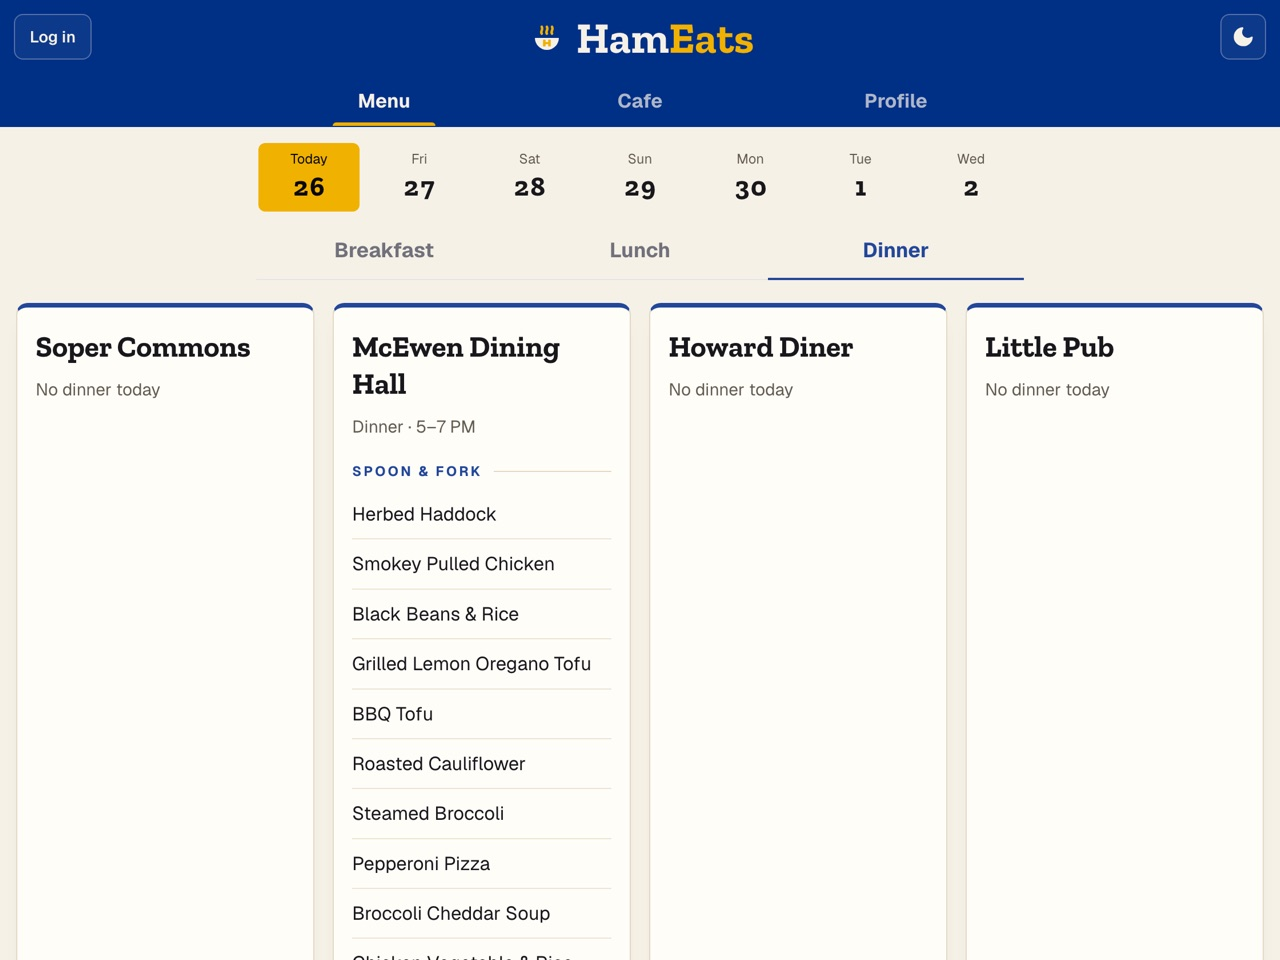
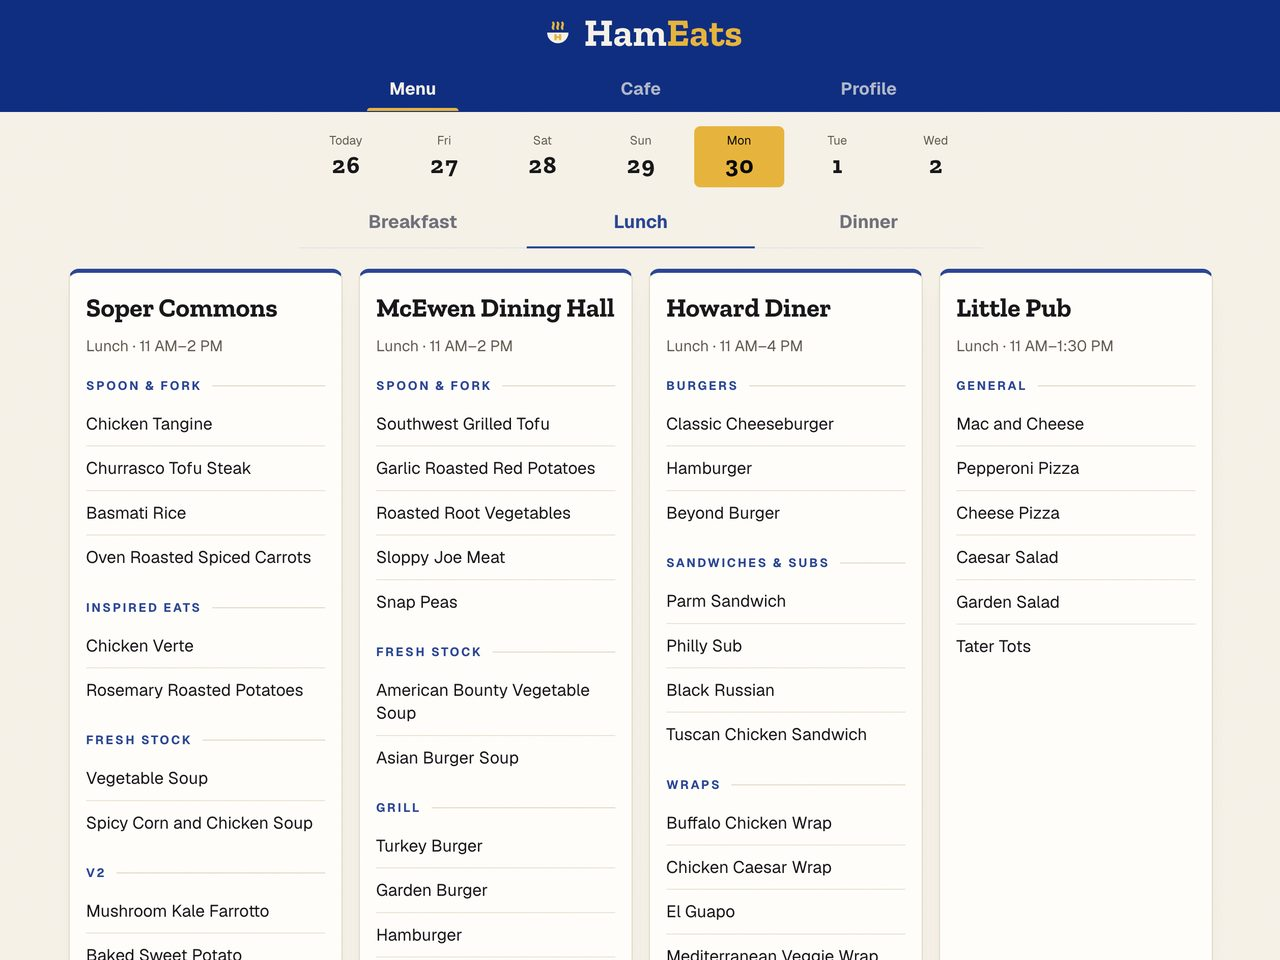
Restyle app cards after Sentient's product cards; new Hameats screenshot
- Narrower cards (380px), 24px padding, 36px corners, border-only hover
- Tighter type scale: 1.75rem title, 14px text and labels, 1.5rem stats
- Screenshot runs edge to edge and fades into the card above the buttons
- 48px pill buttons, still centred
- Replace the Hameats screenshot with a lunch-menu view

diff --git a/src/style.css b/src/style.css
@@ -574,12 +574,14 @@ a {
 }
 
 /* ---------- apps ---------- */
+/* Card layout follows the Sentient product cards: tag, title, short text, a two-figure
+   stat row, an edge-to-edge picture that fades into the card, then the buttons. */
 .app-cards {
+  --card-bg: #fff;
   display: grid;
-  grid-template-columns: repeat(2, minmax(0, 1fr));
-  gap: 28px;
-  max-width: 980px;
-  margin: 0 auto;
+  grid-template-columns: repeat(2, minmax(0, 380px));
+  justify-content: center;
+  gap: 24px;
 }
 
 /* Each card spans six shared rows (tag, name, text, stats, screenshot, buttons) so
@@ -590,17 +592,19 @@ a {
   grid-template-rows: subgrid;
   row-gap: 0;
   align-content: start;
-  padding: 32px;
-  background: #fff;
-  border: 2px solid transparent;
-  border-radius: 32px;
-  box-shadow: 0 1px 2px rgb(23 58 120 / 0.04), 0 10px 30px rgb(23 58 120 / 0.05);
+  padding: 24px;
+  overflow: hidden;
+  background: var(--card-bg);
+  border: 1.5px solid transparent;
+  border-radius: 36px;
+  box-shadow: 0 1px 2px rgb(23 58 120 / 0.04), 0 8px 24px rgb(23 58 120 / 0.05);
   transition: border-color 0.3s, box-shadow 0.3s;
 }
 
-.app-card:hover {
+.app-card:hover,
+.app-card:focus-within {
   border-color: var(--fb-blue);
-  box-shadow: 0 14px 40px rgb(23 58 120 / 0.1);
+  box-shadow: 0 12px 32px rgb(23 58 120 / 0.09);
 }
 
 .app-tag {
@@ -608,72 +612,79 @@ a {
   align-self: start;
   display: inline-flex;
   align-items: center;
-  gap: 10px;
-  padding: 7px 16px;
+  gap: 8px;
+  padding: 8px 12px;
   border: 1px solid var(--light-mid);
   border-radius: 999px;
   color: var(--heading);
-  font-size: 0.95rem;
+  font-size: 0.875rem;
   font-weight: 600;
+  line-height: 1.24;
+}
+
+.app-tag .dot {
+  width: 8px;
+  height: 8px;
 }
 
 .app-name {
-  margin: 28px 0 12px;
+  margin: 32px 0 0;
   color: var(--heading);
-  font-size: clamp(1.8rem, 3.2vw, 2.3rem);
+  font-size: 1.75rem;
   font-weight: 800;
-  letter-spacing: -0.01em;
-  line-height: 1.1;
+  letter-spacing: -0.02em;
+  line-height: 1;
 }
 
 .app-desc {
-  margin: 0;
+  margin: 16px 0 0;
   color: var(--gray);
-  font-size: 1.02rem;
-  line-height: 1.6;
+  font-size: 0.875rem;
+  line-height: 1.55;
 }
 
 .app-stats {
   align-self: start;
   display: grid;
   grid-template-columns: 1fr 1fr;
-  margin-top: 28px;
+  margin-top: 24px;
   border-top: 1px solid var(--light-mid);
 }
 
 .app-stat {
   display: flex;
   flex-direction: column;
-  gap: 4px;
+  gap: 8px;
+  min-height: 48px;
   padding-top: 20px;
 }
 
 .app-stat + .app-stat {
-  padding-left: 24px;
+  padding-left: 20px;
   border-left: 1px solid var(--light-mid);
 }
 
 .app-stat-value {
   color: var(--heading);
-  font-size: clamp(1.4rem, 2.4vw, 1.75rem);
+  font-size: 1.5rem;
   font-weight: 800;
-  letter-spacing: -0.01em;
-  line-height: 1.15;
+  letter-spacing: -0.02em;
+  line-height: 1;
 }
 
 .app-stat-label {
   color: var(--gray);
-  font-size: 0.98rem;
+  font-size: 0.875rem;
+  line-height: 1.24;
 }
 
+/* Bleeds to the card edges; the overlay fades the bottom corners into the card. */
 .app-shot {
+  position: relative;
   display: block;
-  margin: 32px 0;
-  border: 1px solid var(--light-mid);
-  border-radius: 18px;
-  overflow: hidden;
-  background: var(--light);
+  margin: 24px -24px 0;
   aspect-ratio: 4 / 3;
+  background: var(--light);
 }
 
 .app-shot img {
@@ -682,35 +693,45 @@ a {
   height: 100%;
   object-fit: cover;
   object-position: top center;
-  transition: transform 0.5s ease;
 }
 
-.app-card:hover .app-shot img {
-  transform: scale(1.03);
+.app-shot::after {
+  content: '';
+  position: absolute;
+  inset: 0 0 -2px;
+  pointer-events: none;
+  background:
+    radial-gradient(97.71% 97.71% at 50% 0%, rgb(255 255 255 / 0) 77.1%, var(--card-bg) 100%),
+    linear-gradient(to bottom, rgb(255 255 255 / 0) 70%, var(--card-bg) 100%);
 }
 
 .app-actions {
   align-self: end;
+  position: relative;
   display: flex;
   justify-content: center;
   flex-wrap: wrap;
-  gap: 12px;
+  gap: 10px;
+  margin-top: -8px;
 }
 
 .app-btn {
   display: inline-flex;
   align-items: center;
+  justify-content: center;
   gap: 8px;
-  padding: 13px 28px;
+  height: 48px;
+  padding: 0 24px;
   border-radius: 999px;
-  font-size: 1.05rem;
+  font-size: 0.9rem;
   font-weight: 700;
   text-decoration: none;
-  transition: background 0.2s, color 0.2s, transform 0.2s;
+  transition: background 0.3s ease-in, color 0.3s ease-in;
 }
 
-.app-btn:hover {
-  transform: translateY(-1px);
+.app-btn svg {
+  width: 16px;
+  height: 16px;
 }
 
 .app-btn-open {
@@ -719,7 +740,7 @@ a {
 }
 
 .app-btn-open:hover {
-  background: var(--fb-blue-dark);
+  background: var(--fb-blue);
 }
 
 .app-btn-code {
@@ -1045,7 +1066,7 @@ a {
   }
 
   .app-cards {
-    max-width: 520px;
+    grid-template-columns: minmax(0, 400px);
   }
 
   .hero {
@@ -1087,11 +1108,6 @@ a {
   .member-grid.large .avatar {
     width: 72px;
     height: 72px;
-  }
-
-  .app-card {
-    padding: 24px;
-    border-radius: 24px;
   }
 }
 
